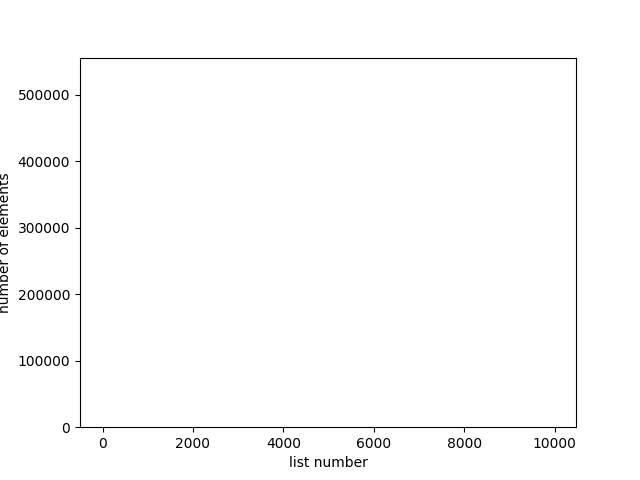
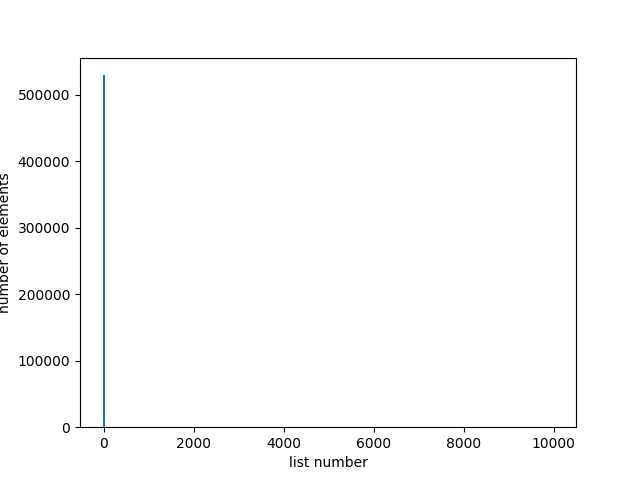
Release 2

diff --git a/NoOptimizations/HashTableFunctions.cpp b/NoOptimizations/HashTableFunctions.cpp
@@ -1,9 +1,5 @@
 #include "HashTable.hpp"
 
-extern "C" int CRC32Computing (void *str, int length);
-
-extern "C" int isalphA (char str); 
-
 unsigned long CRCTable [] = {
     0x00000000, 0x77073096, 0xEE0E612C, 0x990951BA,
     0x076DC419, 0x706AF48F, 0xE963A535, 0x9E6495A3,
@@ -85,6 +81,8 @@ unsigned long CRCTable [] = {
     0xB3667A2E, 0xC4614AB8, 0x5D681B02, 0x2A6F2B94,
     0xB40BBE37, 0xC30C8EA1, 0x5A05DF1B, 0x2D02EF8D
 };
+
+const int HASHTABLESIZE = 9973;
 
 int HashTableInit (HashTable *table, const int size) {
     assert (table);
@@ -300,19 +298,7 @@ int main (const int argc, const char *argv[]) {
 
     HashTableInit (&table, HASHTABLESIZE);
 
-    FillHashTable (&table, argv[1], HashFirstLetter);
-
-    FILE *file = fopen ("file.txt", "w");
-
-    for (int i = 0; i < table.size; i++) {
-        if (i == table.size - 1)
-            fprintf (file, "%d ", table.listArr[i].size);
-        else {
-            fprintf (file, "%d , ", table.listArr[i].size);
-        }
-    }
-
-    fclose (file);
+    FillHashTable (&table, argv[1], HashCRC32);
 
     HashTableDestruct (&table);
 

diff --git a/NoOptimizations/HashTable.hpp b/NoOptimizations/HashTable.hpp
@@ -5,8 +5,6 @@
 #include <string.h>
 #include <ctype.h>
 
-#define HASHTABLESIZE 9973
-
 struct HashTable {
 
     List *listArr;

diff --git a/README.md b/README.md
@@ -1,6 +1,6 @@
 # HashTable with chaining
 
-This is implementation of hash table (also known as hash map). The aim is to optimize hash table as much as possible. To achieve this I use functions written on Assembly language as well as Intel intrinsics. As a text base I use 8.5MB txt file with the most commonly used WI-FI passwords. The size of hash table is 9973. All test done on AMD Ryzen 7 4800H with -O2 -mavx2 gcc flags.
+This is implementation of hash table (also known as hash map). The aim is to optimize hash table as much as possible. To achieve this I use functions coded on Assembly language as well as Intel intrinsics. As a text base I use 8.5MB txt file with the most commonly used WI-FI passwords. The size of hash table is 9973. All test done on AMD Ryzen 7 4800H with -O2 -mavx2 gcc flags.
 
 ## Testing hash functions
 
@@ -57,7 +57,7 @@ As wee can see from the data, the slowest functions are FillHashTable and FillBu
 ![](images/optmization_results/no_optimizations_crc32.png "").
 
 This is ListSearch before optimizations.
-```
+```cpp
 int ListSearch (List *lst, const DATA str, const int length) {
     assert (lst);
     assert (str);
@@ -72,7 +72,7 @@ int ListSearch (List *lst, const DATA str, const int length) {
 }
 ```
 After modifying:
-```
+```cpp
 int ListSearch (List *lst, const DATA str, const int length) {
     assert (lst);
     assert (str);
@@ -105,9 +105,10 @@ Hmm, it's time to look at callgrind again:
 
 ![](images/optmization_results/avx_cmp.png "").
 
-Function FindLastLetter calls isalpha, so I decided to optimize it. I'll write this function on Assembly.
+
+Function FindLastLetter calls isalpha, so I decided to optimize it. I'll code this function on Assembly.
 Here it is:
-```
+```x86asm
 isalphA:
 
         saveregs
@@ -137,8 +138,8 @@ end:    restoreregs
 ![](images/optmization_results/isalphA.png "").
 
 We got 4% boost. Well, it is an optimization. 4% is better that 0.
-Next function is HashCRC32. Obviously, it counts hash. First of all, I'll write it in Assmebly. It is C version:
-```
+Next function is HashCRC32. Obviously, it counts hash. First of all, I'll code it in Assembly. It is C version:
+```cpp
 int HashCRC32 (void *str, const int length) {
     assert (str);
 
@@ -154,7 +155,7 @@ int HashCRC32 (void *str, const int length) {
 ```
 
 ASM:
-```
+```x86asm
 CRC32Computing:     
 
                 ; pushparams      ; rdi - buffer
@@ -212,10 +213,10 @@ endOfProc:
 
 ![](images/optmization_results/assembly_crc32_isalphA.png "").
 
-Unfortunately, this function slows down my program. Maybe, I'm not good at writnig asm code. Definetely, compiler writes on asm better than me)
+Unfortunately, this function slows down my program. Maybe, I'm not good at writing asm code. Definetely, compiler generate asm code better than me)
 
 Besides that, I want to try crc32 on intrinsics. That's how it looks:
-```
+```cpp
 int HashTableInsert (HashTable *table, char *str, int length, int (* HashFunction)(void *, int)) {
     assert (table);
     assert (str);
@@ -243,4 +244,4 @@ As we can see from callgrind, there is function called ResizeListUp. It calls wh
 
 ## Results discussion
 
-    To sum up, we optimize our hash table by 70.5%. The main boost is given by using intrinsics. Unfortunately, I cannot compete with compiler in writing good asm code. It doesn't benefit at all. Maybe, if I used -O0 flag, we were able to notice boost, but I used -O2.
+To sum up, we optimize our hash table by 70.5%. The main boost is given by using intrinsics. Unfortunately, I cannot compete with compiler in coding on asm code. It doesn't benefit at all. Maybe, if I used -O0 flag, we were able to notice boost, but I used -O2.
